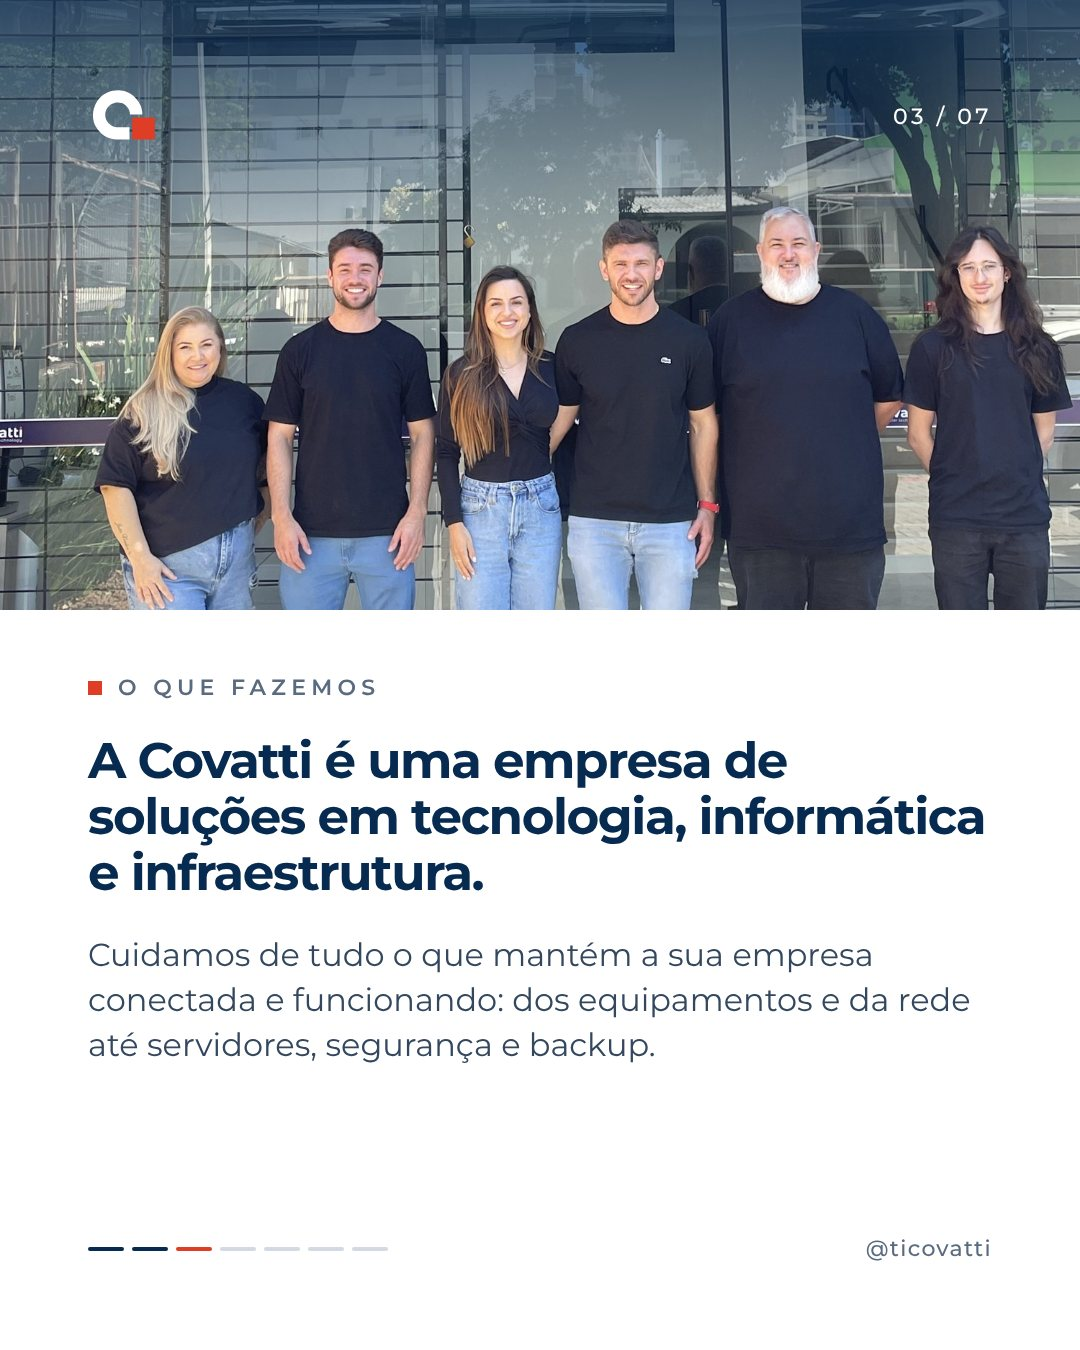
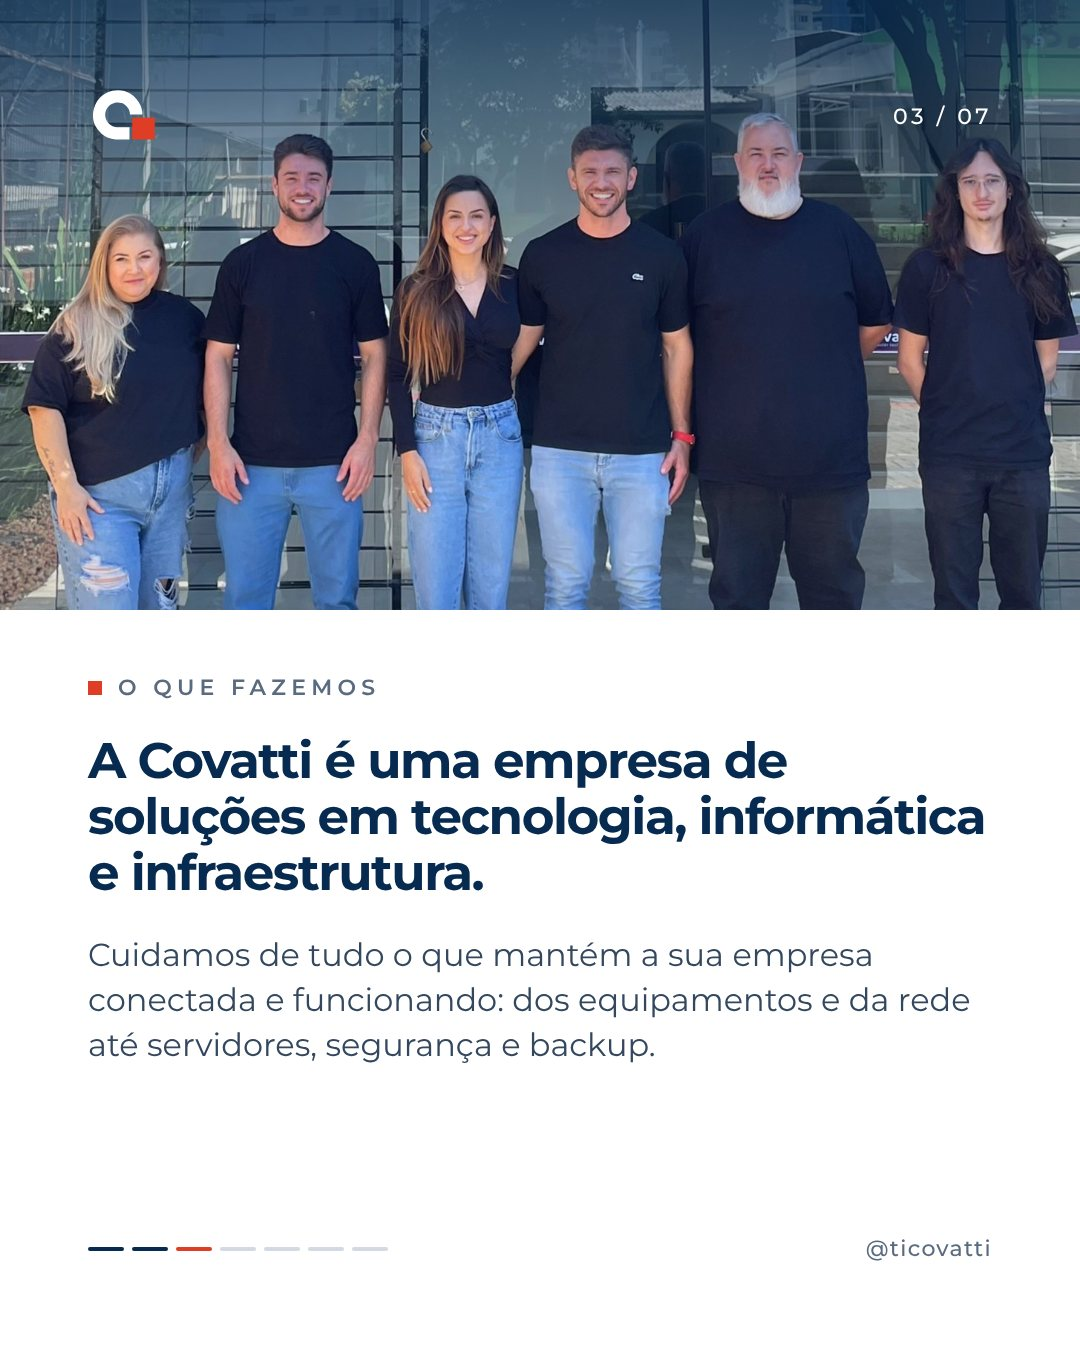
Add files via upload

Changed region(s): [[0.0, 0.0, 1.0, 0.4667], [0.7028, 0.3422, 0.7333, 0.3733]]

diff --git a/novembro-2026/index.html b/novembro-2026/index.html
@@ -223,7 +223,7 @@ const CONTEUDO = [
   {
     "taskId": "1dfh60pfynh",
     "tipo": "carrossel",
-    "data": "09/11",
+    "data": "10/11",
     "rotulo": "Prazer, Covatti",
     "titulo": "Prazer, Covatti: desde 2014 cuidando da TI de empresas do Oeste catarinense",
     "legenda": "Começamos por aqui: quem somos e o que fazemos. Desde 2014, ajudamos empresas do Oeste catarinense a manter a tecnologia funcionando e a investir no que realmente faz sentido para cada negócio. Segue a gente para acompanhar o que vem por aí.",
@@ -251,7 +251,7 @@ const CONTEUDO = [
   {
     "taskId": "1dfh60pfynk",
     "tipo": "carrossel",
-    "data": "16/11",
+    "data": "12/11",
     "rotulo": "Loja ou parceiro?",
     "titulo": "Loja de informática ou parceiro de tecnologia? A diferença que aparece no seu orçamento",
     "legenda": "Comprar tecnologia é fácil. Difícil é comprar a tecnologia certa. Se esse post te lembrou de alguma compra que não resolveu o problema, você já sabe a diferença entre uma loja e um parceiro.",
@@ -269,7 +269,7 @@ const CONTEUDO = [
   {
     "taskId": "1dfh60pfynm",
     "tipo": "imagem",
-    "data": "18/11",
+    "data": "13/11",
     "rotulo": "Entender e planejar",
     "titulo": "Antes de vender, a gente entende. Antes de instalar, a gente planeja.",
     "formato": "Frase",
@@ -279,7 +279,7 @@ const CONTEUDO = [
   {
     "taskId": "1dfh60pfynn",
     "tipo": "carrossel",
-    "data": "23/11",
+    "data": "14/11",
     "rotulo": "Mito do antivírus",
     "titulo": "Mito: “Tenho antivírus, então estou protegido”",
     "legenda": "Antivírus sozinho não protege uma empresa. Ele é uma camada, e uma rede bem protegida precisa de várias trabalhando juntas. Salve este post para conferir como está a sua.",
@@ -297,7 +297,7 @@ const CONTEUDO = [
   {
     "taskId": "1dfh60pfynp",
     "tipo": "reel",
-    "data": "24/11",
+    "data": "16/11",
     "rotulo": "Dentro do rack",
     "titulo": "Brinde: um técnico mostra o que tem dentro de um rack",
     "legenda": "Ele fica num canto da sala e quase ninguém olha para ele, mas é ali que a rede inteira da sua empresa funciona. Hoje um dos nossos técnicos mostra o que tem dentro de um rack e por que a organização dele faz tanta diferença no dia a dia.",
@@ -309,7 +309,7 @@ const CONTEUDO = [
   {
     "taskId": "1dfh60pfynq",
     "tipo": "imagem",
-    "data": "25/11",
+    "data": "17/11",
     "rotulo": "Nossa equipe",
     "titulo": "Quem está por trás da Covatti",
     "formato": "Leia a legenda",
@@ -320,7 +320,7 @@ const CONTEUDO = [
   {
     "taskId": "1dfh60pfynr",
     "tipo": "carrossel",
-    "data": "30/11",
+    "data": "18/11",
     "rotulo": "Seu backup funciona?",
     "titulo": "Seu backup funciona? 3 perguntas para descobrir hoje",
     "legenda": "Backup é aquela coisa que todo mundo acha que tem, até precisar. Responda as 3 perguntas do carrossel e salve para mostrar a quem cuida da TI aí na empresa.",
@@ -338,7 +338,7 @@ const CONTEUDO = [
   {
     "taskId": "1dfh60pfynt",
     "tipo": "imagem",
-    "data": "02/12",
+    "data": "19/11",
     "rotulo": "TI em 2027",
     "titulo": "Planejamento de TI para 2027: por que fazer agora",
     "formato": "Leia a legenda",
